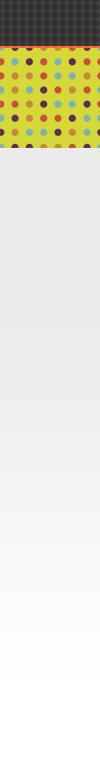
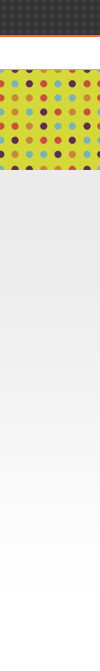
img css  millor

Changed region(s): [[0.0, 0.0298, 1.0, 0.2683]]

diff --git a/web/portal/css/tvcultura/sites/millor.css b/web/portal/css/tvcultura/sites/millor.css
@@ -1,10 +1,10 @@
 /** millor **/
-body {background:url(/portal/images/capaPrograma/millor/bg-tudo2.jpg) repeat-x 0 23px  }
+body {background:url(/portal/images/capaPrograma/millor/bg-tudo2.jpg) repeat-x 0 0;  }
 .submenu-interna {width:106px;}
 .submenu-interna li a { margin-left:10px;}
 .chapeu {color:#ff6633;}
 .bg-site {height:100px; width:100%; /*background:url(/portal/images/capaPrograma/millor/bkg.gif) repeat-x;*/ position:relative; top:48px; z-index: 0; clear:both;}
-#capa-site {margin-top:-90px !important;}
+#capa-site {margin-top:-94px !important;}
 /*#capa-site {*margin-top:-100px !important;}*/
 #miolo {margin-top:28px;}
 #barra-site {height:100px; background:url(/portal/images/capaPrograma/millor/logo.png) no-repeat 50px 0; margin:0; width:1012px; }
